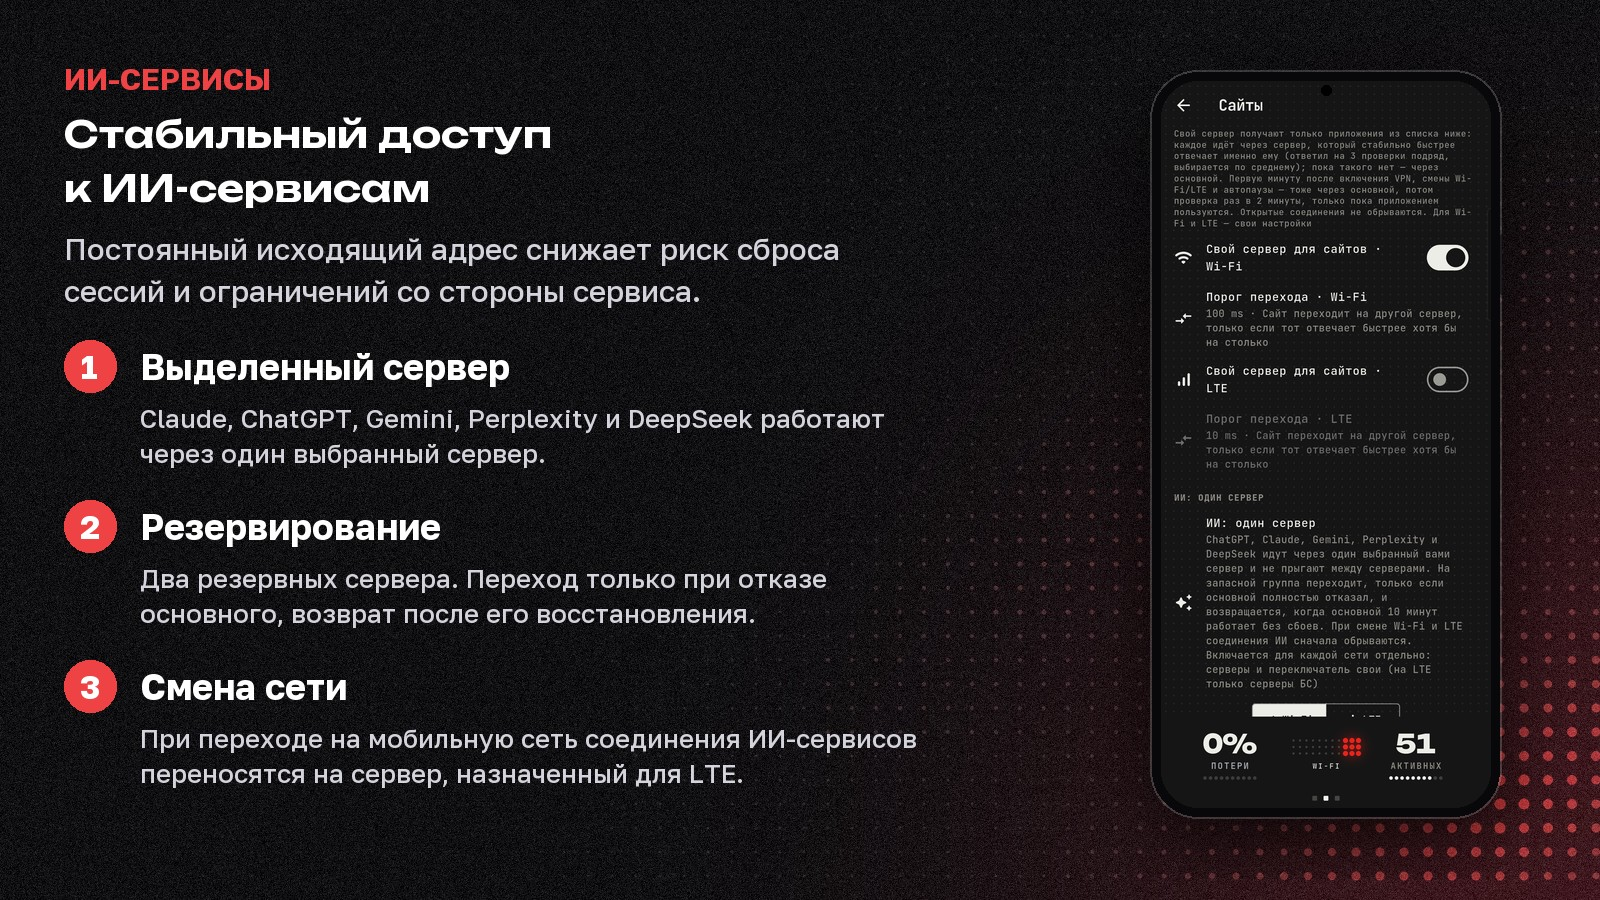
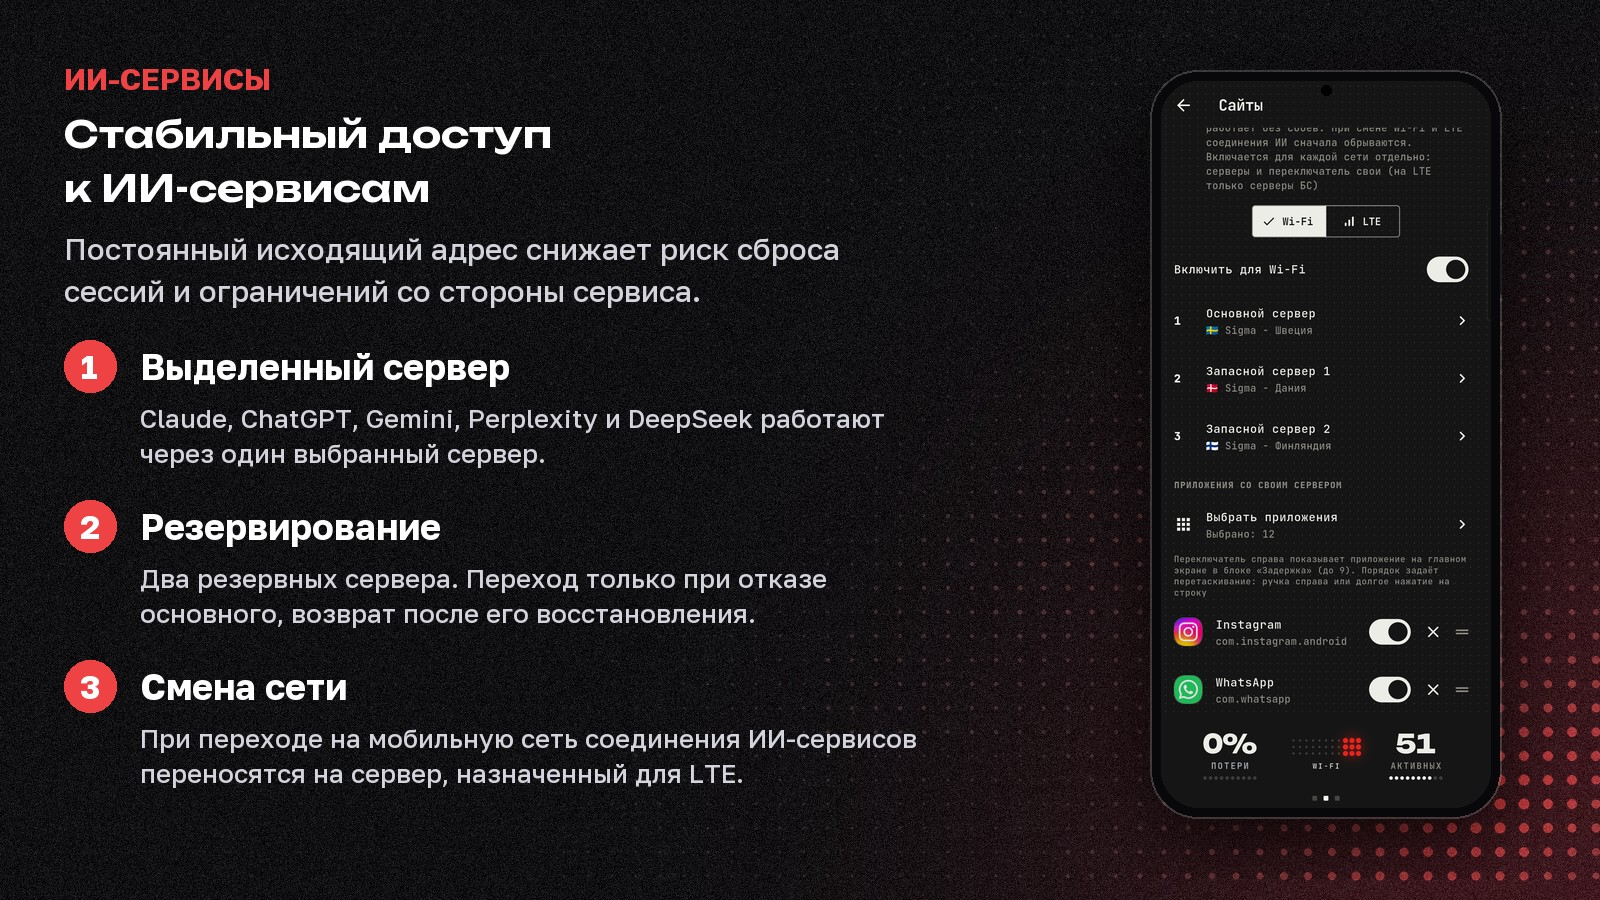
README: captions match their pictures (AI servers screen, server list, modes), accurate Windows and network wording

diff --git a/README.md b/README.md
@@ -129,7 +129,7 @@
 
 ## Конфиденциальность
 
-A-VPN не собирает телеметрию и аналитику. Приложение обращается только к github.com для проверки обновлений. Подписки и статистика хранятся на устройстве, журналы очищаются от ссылок и ключей.
+A-VPN не собирает телеметрию и аналитику. Кроме проверки связи по выбранному адресу, приложение обращается только к github.com за обновлениями. Подписки и статистика хранятся на устройстве, журналы очищаются от ссылок и ключей.
 
 ## Сборка
 
